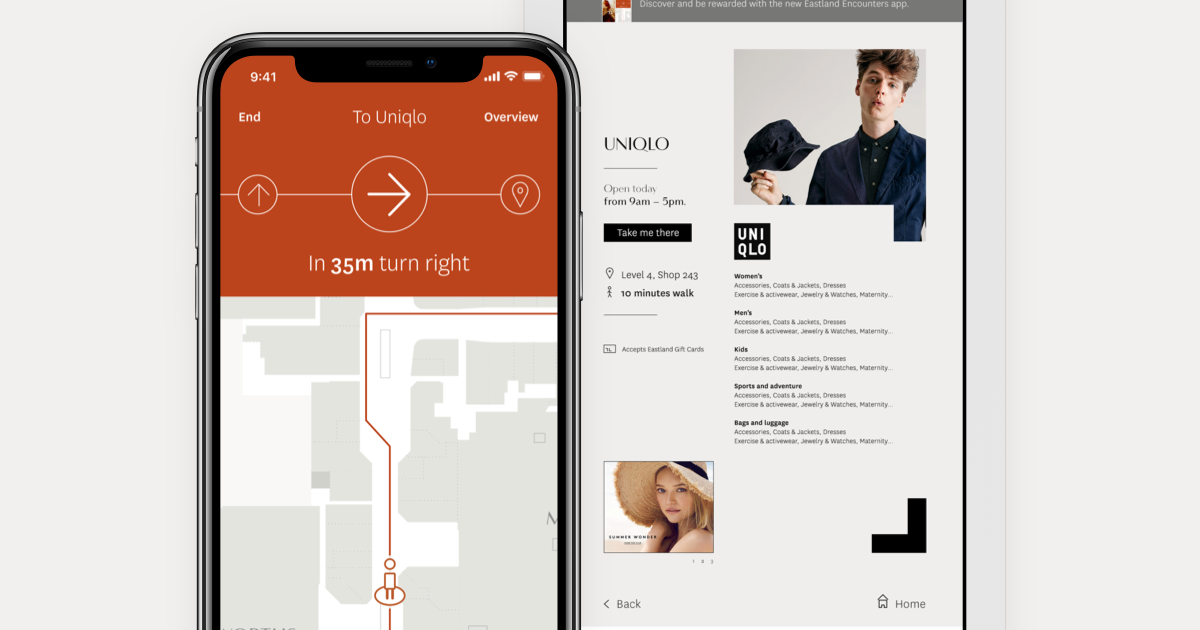
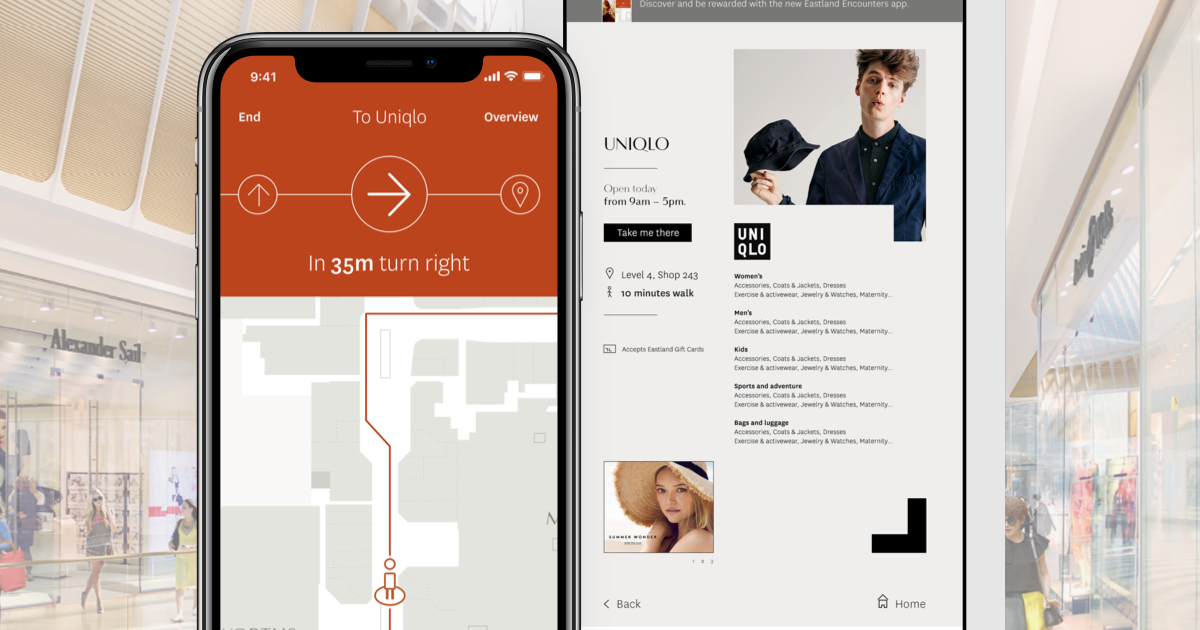
Updated the background of the Eastland tile

Changed region(s): [[0.0, 0.0, 0.4008, 1.0], [0.8325, 0.0, 1.0, 1.0]]

diff --git a/_sass/_components.scss b/_sass/_components.scss
@@ -808,10 +808,12 @@ header {
 	
 	&.eastland {
 		grid-area: eastland;
-		background: #F2F0EE;
+		background: url(../portfolio/background-eastland-alt.jpg);
+		background-size: cover;	
 		
 		@media (prefers-color-scheme: dark) {	
-			background: #3B3A3A;
+			background: url(../portfolio/background-eastland-alt-dark.jpg);
+			background-size: cover;	
 		}
 		
 		.promo {

diff --git a/_sass/themes.scss b/_sass/themes.scss
@@ -202,10 +202,12 @@
 	
 	.eastland {
 		grid-area: eastland;
-		background: #F2F0EE;
+		background: url(../portfolio/background-eastland.jpg);
+		background-size: cover;
 		
 		@media (prefers-color-scheme: dark) {	
-			background: #3B3A3A;
+			background: url(../portfolio/background-eastland-dark.jpg);
+			background-size: cover;
 		}
 		
 		.promo {
